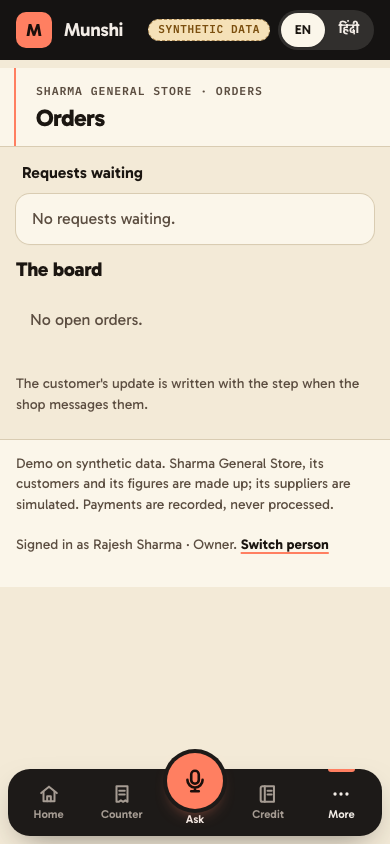
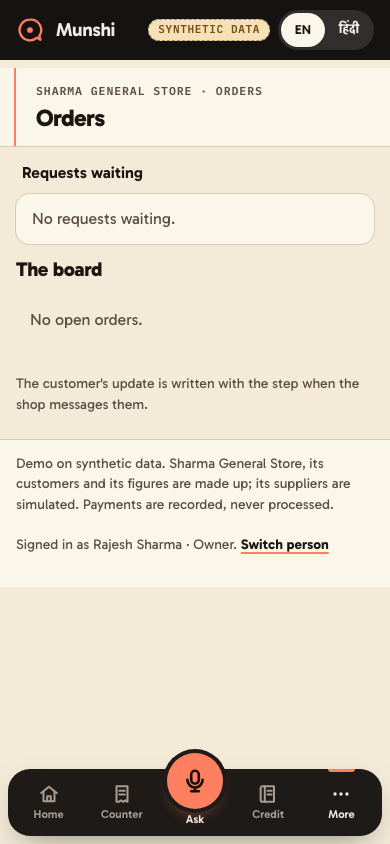
P-6a: figures face in the source cell, the site's mark in the shell, pill-true screenshots

Changed region(s): [[0.0308, 0.0, 0.3077, 0.0616]]

diff --git a/apps/web/components/shell/AppNav.tsx b/apps/web/components/shell/AppNav.tsx
@@ -8,6 +8,7 @@ import { beforeMic, type Extra, HREF, LABEL, PHONE_SLOTS, SECTIONS, type Section
 import type { Member } from "../../lib/types";
 import { useLang } from "../LangProvider";
 import { MicButton } from "../MicButton";
+import { Mark } from "../site/Mark";
 import "./AppNav.css";
 
 // One stroke, one weight, drawn for Munshi on a 24px grid (no icon set).
@@ -87,7 +88,9 @@ export function AppNav({ role, extra = [] }: { role: Member["role"]; extra?: Ext
   return (
     <nav className="nav" aria-label={o.navLabel}>
       <div className="nav-cap" aria-hidden="true">
-        <span className="bar-mark">M</span>
+        <span className="bar-mark">
+          <Mark />
+        </span>
         <span className="word">Munshi</span>
       </div>
       <ul className="nav-list">

diff --git a/apps/web/components/shell/TopBar.css b/apps/web/components/shell/TopBar.css
@@ -16,19 +16,19 @@
   gap: var(--space-3);
   min-width: 0;
 }
+/* The product site's mark (components/site/Mark.tsx): a coral speech bubble on the warm black, so /demo hands off to
+   the app under the same sign. */
 .bar-mark {
   display: grid;
   place-items: center;
   flex: none;
-  width: 36px;
-  height: 36px;
-  border-radius: var(--radius-control);
-  background: var(--accent);
-  color: var(--accent-ink);
-  font-family: var(--font-display);
-  font-weight: 800;
-  font-size: 1.125rem;
-  line-height: 1;
+  width: 28px;
+  height: 28px;
+  color: var(--accent);
+}
+.bar-mark svg {
+  width: 26px;
+  height: 26px;
 }
 .word {
   font-family: var(--font-display);

diff --git a/apps/web/components/shell/TopBar.tsx b/apps/web/components/shell/TopBar.tsx
@@ -2,6 +2,7 @@
 
 import { useLang } from "../LangProvider";
 import { Sticker } from "../Sticker";
+import { Mark } from "../site/Mark";
 import "./TopBar.css";
 
 /** The header band: neem green on a phone and whenever there is no rail; on a desk with the rail it is a quiet strip
@@ -13,7 +14,7 @@ export function TopBar() {
       <div className="wrap bar-in">
         <span className="bar-id">
           <span className="bar-mark" aria-hidden="true">
-            M
+            <Mark />
           </span>
           <span className="word">Munshi</span>
         </span>

diff --git a/apps/web/components/app/app.css b/apps/web/components/app/app.css
@@ -38,12 +38,11 @@
   margin-left: 6px;
   padding: 1px 8px;
   border-radius: var(--radius-chip);
-  font-family: var(--f-mono);
-  font-size: 0.6875rem;
-  font-weight: 600;
-  letter-spacing: 0.05em;
-  text-transform: uppercase;
-  line-height: 1.5;
+  /* The body face, not the rail's figures face it sits in; tags can be a phrase, so not the mono. */
+  font-family: var(--f-body);
+  font-size: 0.75rem;
+  font-weight: 650;
+  line-height: 1.4;
   vertical-align: 1px;
   white-space: nowrap;
   border: 1px solid var(--hairline);

diff --git a/apps/web/styles/base.css b/apps/web/styles/base.css
@@ -132,7 +132,7 @@ a {
 :lang(hi):not(.word) {
   letter-spacing: 0;
 }
-:is(.kicker, .sticker-yellow, .sticker-ink, .app-tag, .ref, .cv-tag, .unverified strong, .src-meta):lang(hi) {
+:is(.kicker, .sticker-yellow, .sticker-ink, .ref, .cv-tag, .unverified strong, .src-meta):lang(hi) {
   font-family: var(--f-deva);
   text-transform: none;
 }

diff --git a/apps/web/components/Counter.css b/apps/web/components/Counter.css
@@ -199,9 +199,9 @@
   width: 76px;
   padding: 0 8px;
   text-align: center;
-  font-family: var(--f-mono);
+  font-family: var(--font-figures);
   font-weight: 600;
-  font-variant-numeric: tabular-nums;
+  font-variant-numeric: tabular-nums lining-nums;
 }
 .stepper .unit {
   font-weight: 700;

diff --git a/apps/web/components/SourceDrawer.css b/apps/web/components/SourceDrawer.css
@@ -110,7 +110,8 @@
 }
 .ledger .n {
   text-align: right;
-  font-family: var(--f-mono);
+  font-family: var(--font-figures);
+  font-variant-numeric: tabular-nums lining-nums;
   font-weight: 600;
   white-space: nowrap;
 }

diff --git a/apps/web/components/shell/AppNav.css b/apps/web/components/shell/AppNav.css
@@ -75,7 +75,7 @@
   background: var(--accent);
 }
 @media (hover: hover) {
-  .nav-a:not([aria-current="page"]):hover {
+  .nav-list .nav-a:not([aria-current="page"]):hover {
     color: var(--shell-text);
   }
 }
